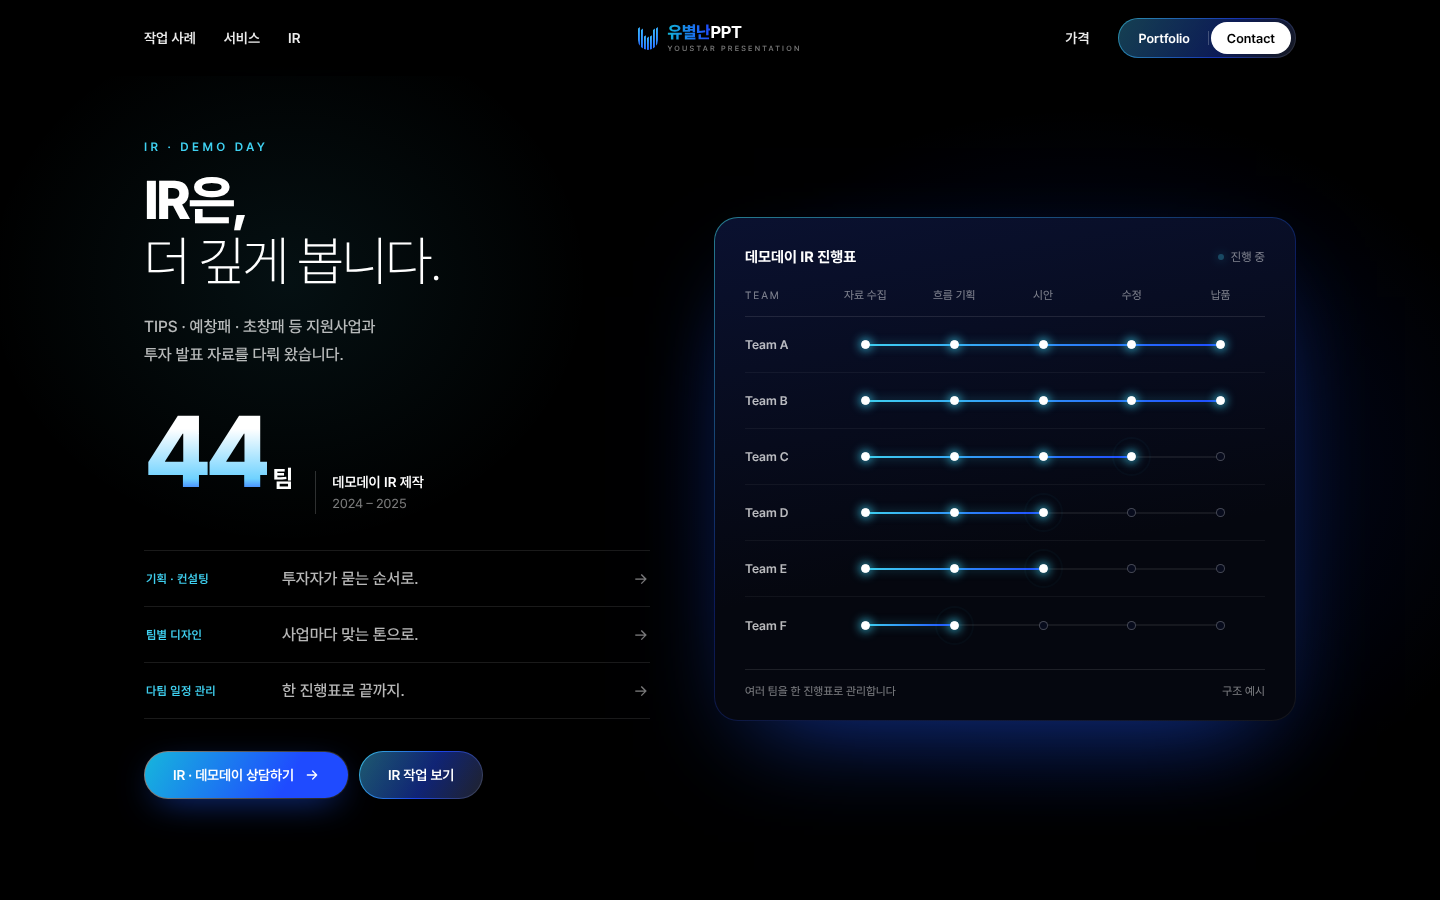
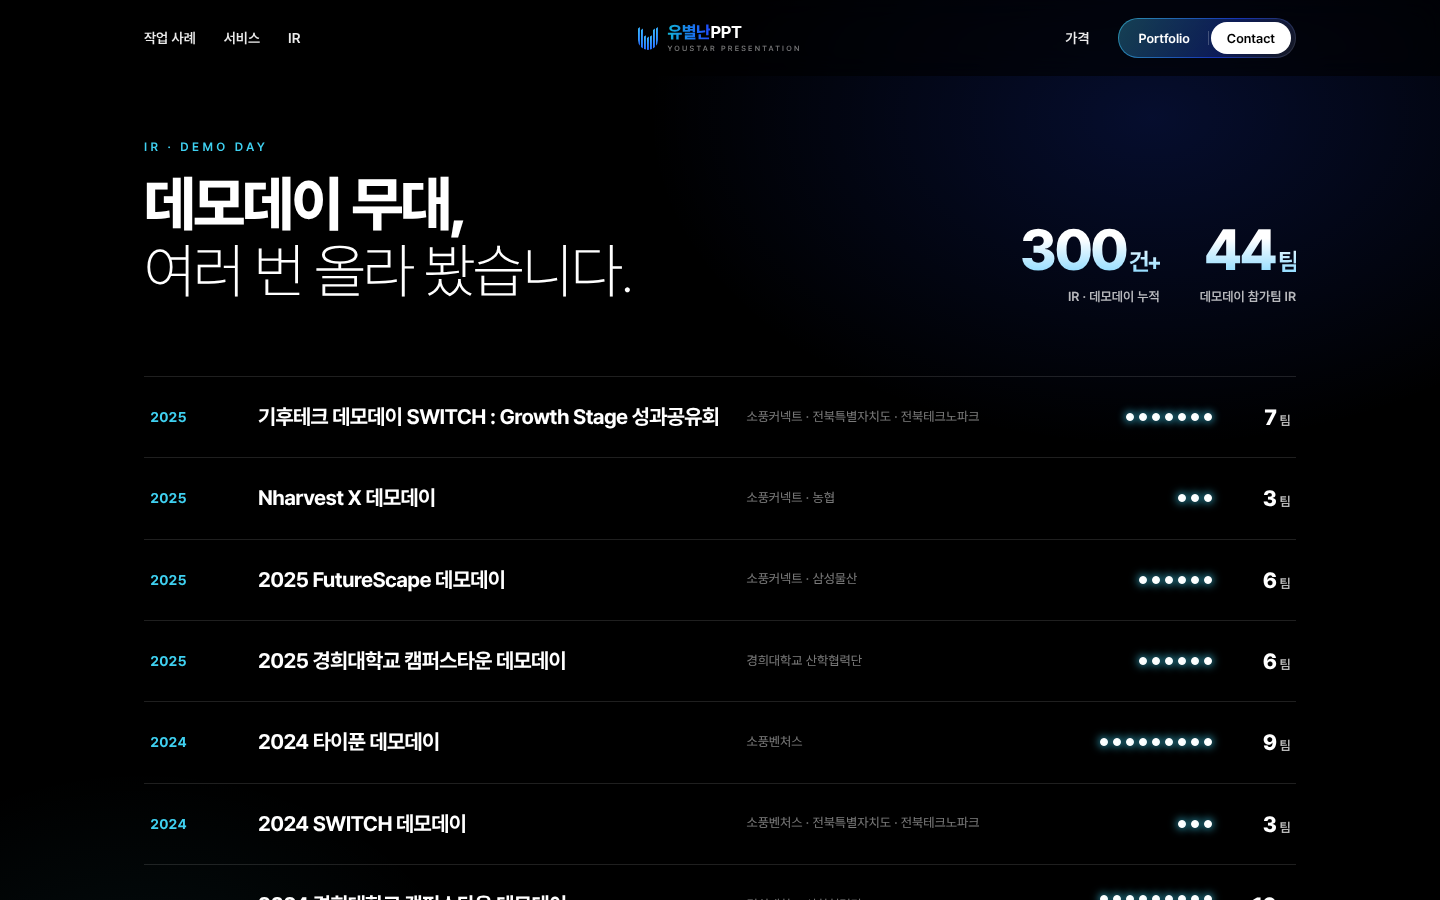
v2: IR section rebuilt from real demo day history; update stats
- IR: 회사소개 연혁의 데모데이 7건(2024–2025, 참가팀 44팀)을 행사별 줄로, 팀 수만큼 빛 점이 켜짐
- 머리 숫자: IR·데모데이 누적 300건+ / 데모데이 참가팀 44팀
- 숫자 섹션: 누적 작업 642건+, 공식 고객후기 359건, IR·데모데이 300건+

Claude-Session: https://claude.ai/code/session_01NURhbB6Mq8R8WnaczfYj5a

diff --git a/redesign/v2/index.html b/redesign/v2/index.html
@@ -176,71 +176,54 @@ a{color:inherit;text-decoration:none}
   .svc__foot{text-align:left;font-size:13px}
 }
 
-/* 다섯 번째: IR 특화 — 44팀 + 여러 팀 진행표 */
+/* 다섯 번째: IR — 실제 데모데이 이력. 행사마다 참가팀 수만큼 빛 점이 켜진다 */
 .irx{position:relative;padding:140px 0;isolation:isolate}
-.irx::before{content:"";position:absolute;inset:0;z-index:-1;background:radial-gradient(ellipse 45% 55% at 75% 50%,rgba(31,75,255,.16),transparent 70%),radial-gradient(ellipse 30% 40% at 20% 30%,rgba(63,208,240,.08),transparent 70%)}
-.irx .wrap{display:grid;grid-template-columns:1fr 1.15fr;gap:64px;align-items:center}
+.irx::before{content:"";position:absolute;inset:0;z-index:-1;background:radial-gradient(ellipse 50% 40% at 80% 10%,rgba(31,75,255,.18),transparent 70%),radial-gradient(ellipse 35% 35% at 10% 90%,rgba(63,208,240,.08),transparent 70%)}
+.irx__head{display:grid;grid-template-columns:1.3fr 1fr;gap:40px;align-items:end}
 .irx small.k{display:block;font-size:12px;font-weight:600;letter-spacing:.28em;color:#3fd0f0;text-transform:uppercase}
-.irx h2{margin:16px 0 0;font-size:clamp(32px,3.8vw,54px);line-height:1.14;letter-spacing:-.045em}
+.irx h2{margin:16px 0 0;font-size:clamp(34px,4.2vw,60px);line-height:1.12;letter-spacing:-.045em}
 .irx h2 b{font-weight:800}.irx h2 span{font-weight:250}
-.irx .lead{margin:20px 0 0;font-size:16px;line-height:1.8;color:var(--ink-2);font-weight:500}
-.big44{display:flex;align-items:baseline;gap:6px;margin:36px 0 0}
-.big44 b{font-size:clamp(64px,7vw,104px);font-weight:800;letter-spacing:-.06em;line-height:.9;background:linear-gradient(180deg,#fff 25%,#6fd2ff 80%,#1f4bff);-webkit-background-clip:text;background-clip:text;color:transparent;font-variant-numeric:tabular-nums}
-.big44 em{font-style:normal;font-size:24px;font-weight:700}
-.big44 small{margin-left:16px;padding-left:16px;border-left:1px solid rgba(255,255,255,.18);font-size:13px;line-height:1.6;color:var(--ink-3)}
-.big44 small strong{display:block;color:#fff;font-weight:600;font-size:14px}
-.irlist{margin:36px 0 0;padding:0;list-style:none;border-top:1px solid rgba(255,255,255,.1)}
-.irlist li{border-bottom:1px solid rgba(255,255,255,.1)}
-.irlist a{display:grid;grid-template-columns:120px 1fr auto;align-items:center;gap:16px;padding:18px 2px;transition:padding .4s var(--ease),background .4s}
-.irlist small{font-size:12px;font-weight:600;color:#3fd0f0;letter-spacing:.02em}
-.irlist b{font-size:16px;font-weight:500;color:var(--ink-2);transition:color .3s}
-.irlist i{font-style:normal;color:var(--ink-3);transition:transform .4s var(--ease),color .3s}
-.irlist a:hover,.irlist a:focus-visible{padding-left:12px;background:linear-gradient(90deg,rgba(63,208,240,.08),transparent)}
-.irlist a:hover b{color:#fff}.irlist a:hover i{transform:translateX(4px);color:#fff}
-.irx .acts{display:flex;flex-wrap:wrap;gap:10px;margin-top:32px}
-.irx .acts .gbtn{height:48px;font-size:14px}
-/* 진행표 */
-.board{border-radius:24px;padding:1px;background:linear-gradient(150deg,rgba(63,208,240,.6),rgba(31,75,255,.35) 45%,rgba(255,255,255,.08));box-shadow:0 40px 100px -40px rgba(31,90,255,.6)}
-.board__in{border-radius:23px;background:linear-gradient(170deg,#0a1130,#05070f 65%);padding:30px 30px 22px}
-.board__top{display:flex;justify-content:space-between;align-items:center;margin-bottom:22px}
-.board__top b{font-size:15px;font-weight:700}
-.board__top span{display:inline-flex;align-items:center;gap:7px;font-size:12px;color:var(--ink-3)}
-.board__top span::before{content:"";width:6px;height:6px;border-radius:50%;background:#3fd0f0;box-shadow:0 0 10px #3fd0f0;animation:blink 1.6s ease-in-out infinite}
-@keyframes blink{50%{opacity:.3}}
-.bh,.br{display:grid;grid-template-columns:76px repeat(5,minmax(0,1fr));align-items:center}
-.bh{padding-bottom:14px;border-bottom:1px solid rgba(255,255,255,.1)}
-.bh span{font-size:11.5px;color:var(--ink-3);text-align:center;transition:color .3s}
-.bh span:first-child{text-align:left;letter-spacing:.18em;font-size:10.5px}
-.br{position:relative;height:56px;border-bottom:1px solid rgba(255,255,255,.05)}
-.br:last-child{border-bottom:0}
-.br > span{font-size:12.5px;color:var(--ink-2);font-weight:600;transition:color .3s}
-.br i{position:relative;z-index:1;justify-self:center;width:9px;height:9px;border-radius:50%;border:1px solid rgba(255,255,255,.25);background:#070b1c;transition:background .35s,border-color .35s,box-shadow .35s,opacity .3s;transition-delay:calc(var(--i) * .22s + var(--r) * .06s)}
-.br::before,.br::after{content:"";position:absolute;left:calc(76px + (100% - 76px) / 10);top:50%;height:2px;margin-top:-1px;border-radius:2px}
-.br::before{right:calc((100% - 76px) / 10);background:rgba(255,255,255,.07)}
-.br::after{width:0;background:linear-gradient(90deg,#3fd0f0,#1f4bff);box-shadow:0 0 10px rgba(63,208,240,.5);transition:width calc((var(--p) - 1) * .22s) linear calc(var(--r) * .06s)}
-.board.is-on .br::after{width:calc((100% - 76px) * (var(--p) - 1) / 5)}
-.board.is-on .br i.is-done{background:#fff;border-color:#fff;box-shadow:0 0 10px 2px rgba(63,208,240,.7)}
-.br i.is-now::after{content:"";position:absolute;inset:-7px;border-radius:50%;border:1.5px solid #3fd0f0;opacity:0}
-.board.is-on .br i.is-now::after{animation:ping 2.2s var(--ease) infinite 1.6s}
-@keyframes ping{0%{opacity:1;transform:scale(.5)}80%,100%{opacity:0;transform:scale(1.9)}}
-.board.is-hl .br i:not(.hl){opacity:.22}
-.board.is-hl .bh span.hl,.board.is-hl .br > span.hl{color:#3fd0f0}
-.board__cap{display:flex;justify-content:space-between;margin:16px 0 0;padding-top:14px;border-top:1px solid rgba(255,255,255,.1);font-size:11.5px;color:var(--ink-3)}
+.irx__nums{display:flex;gap:40px;justify-content:flex-end}
+.irx__nums div{text-align:right}
+.irx__nums b{display:block;font-size:clamp(40px,4vw,58px);font-weight:800;letter-spacing:-.05em;line-height:1;background:linear-gradient(180deg,#fff 30%,#7fd6ff);-webkit-background-clip:text;background-clip:text;color:transparent;font-variant-numeric:tabular-nums}
+.irx__nums b em{font-style:normal;font-size:.42em;font-weight:700;margin-left:3px}
+.irx__nums span{display:block;margin-top:10px;font-size:13px;color:var(--ink-2);font-weight:600}
+.dd{margin:72px 0 0;padding:0;list-style:none;border-top:1px solid rgba(255,255,255,.12)}
+.dd li{position:relative;display:grid;grid-template-columns:84px minmax(0,1.5fr) minmax(0,1fr) 210px;align-items:center;gap:24px;padding:26px 6px;border-bottom:1px solid rgba(255,255,255,.12);opacity:0;transform:translateY(16px);transition:opacity .8s var(--ease),transform .8s var(--ease),background .4s,padding .4s var(--ease)}
+.dd.is-in li{opacity:1;transform:none}
+.dd li::before{content:"";position:absolute;left:0;top:-1px;height:1px;width:0;background:linear-gradient(90deg,#3fd0f0,#1f4bff);transition:width .6s var(--ease)}
+.dd li:hover{background:linear-gradient(90deg,rgba(31,75,255,.10),transparent 70%);padding-left:16px}
+.dd li:hover::before{width:100%}
+.dd time{font-size:14px;font-weight:700;color:#3fd0f0;font-variant-numeric:tabular-nums}
+.dd h3{margin:0;font-size:clamp(17px,1.5vw,21px);font-weight:700;letter-spacing:-.03em;line-height:1.35}
+.dd p{margin:0;font-size:13px;line-height:1.6;color:var(--ink-3)}
+.dd .teams{display:flex;align-items:center;justify-content:flex-end;gap:14px}
+.dd .dots{display:flex;flex-wrap:wrap;gap:5px;justify-content:flex-end;max-width:120px}
+.dd .dots i{width:8px;height:8px;border-radius:50%;border:1px solid rgba(255,255,255,.25);transition:background .3s,border-color .3s,box-shadow .3s;transition-delay:calc(.5s + var(--d) * .07s)}
+.dd.is-in .dots i{background:#fff;border-color:#fff;box-shadow:0 0 8px 1px rgba(63,208,240,.8)}
+.dd .teams b{min-width:64px;text-align:right;font-size:22px;font-weight:800;letter-spacing:-.03em}
+.dd .teams b em{font-style:normal;font-size:13px;font-weight:600;color:var(--ink-2);margin-left:3px}
+.irx__foot{display:flex;justify-content:space-between;align-items:center;gap:20px;margin-top:40px}
+.irx__foot p{margin:0;font-size:15px;color:var(--ink-2)}
+.irx__foot p b{color:#fff}
+.irx__foot .acts{display:flex;gap:10px}
+.irx__foot .gbtn{height:48px;font-size:14px}
 @media (max-width:860px){
   .irx{padding:96px 0}
-  .irx .wrap{grid-template-columns:1fr;gap:44px}
-  .irx h2{font-size:clamp(30px,8.6vw,38px)}
-  .irx .lead{font-size:14.5px}
-  .big44 b{font-size:72px}
-  .irlist a{grid-template-columns:96px 1fr auto;gap:10px;padding:16px 0}
-  .irlist b{font-size:14.5px}
-  .irx .acts{display:grid;grid-template-columns:1fr}
-  .board__in{padding:20px 14px 16px}
-  .bh,.br{grid-template-columns:54px repeat(5,minmax(0,1fr))}
-  .br::before,.br::after{left:calc(54px + (100% - 54px) / 10)}
-  .br::before{right:calc((100% - 54px) / 10)}
-  .board.is-on .br::after{width:calc((100% - 54px) * (var(--p) - 1) / 5)}
-  .bh span{font-size:10px}.br{height:46px}.br > span{font-size:11px}
+  .irx__head{grid-template-columns:1fr;gap:28px}
+  .irx h2{font-size:clamp(32px,9vw,40px)}
+  .irx__nums{justify-content:flex-start;gap:32px}
+  .irx__nums div{text-align:left}
+  .dd{margin-top:44px}
+  .dd li{grid-template-columns:1fr auto;gap:6px 16px;padding:20px 0}
+  .dd li:hover{padding-left:0}
+  .dd time{grid-column:1 / -1;font-size:12.5px}
+  .dd h3{font-size:16.5px}
+  .dd p{grid-column:1;font-size:12px}
+  .dd .teams{grid-column:2;grid-row:2 / span 2}
+  .dd .dots{display:none}
+  .irx__foot{flex-direction:column;align-items:flex-start}
+  .irx__foot .acts{display:grid;grid-template-columns:1fr;width:100%}
 }
 
 @media (max-width:860px){
@@ -303,10 +286,10 @@ a{color:inherit;text-decoration:none}
       <h2><b>숫자가</b> <span>먼저 말합니다.</span></h2>
     </div>
     <div class="stats" id="stats">
-      <div class="stat"><b data-to="442">0<em>건</em></b><span>누적 작업</span><small>IR · 제안서 · 회사소개서</small></div>
+      <div class="stat"><b data-to="642">0<em>건+</em></b><span>누적 작업</span><small>IR · 제안서 · 회사소개서</small></div>
       <div class="stat"><b data-to="4.9" data-dec="1">0<em>/5</em></b><span>고객 평점</span><small>외부 플랫폼 기준</small></div>
-      <div class="stat"><b data-to="359">0<em>건</em></b><span>고객 후기</span><small>실제 의뢰 고객 작성</small></div>
-      <div class="stat"><b data-to="44">0<em>팀</em></b><span>데모데이 IR</span><small>2024 – 2025</small></div>
+      <div class="stat"><b data-to="359">0<em>건</em></b><span>공식 고객후기</span><small>실제 의뢰 고객 작성</small></div>
+      <div class="stat"><b data-to="300">0<em>건+</em></b><span>IR · 데모데이</span><small>누적 제작</small></div>
     </div>
     <div class="quote" id="quote" aria-live="polite">
       <p class="is-on"><i>★★★★★</i><q>벌써 8번째 의뢰, 자료의 톤앤매너를 완벽하게 캐치합니다.</q></p>
@@ -336,25 +319,14 @@ a{color:inherit;text-decoration:none}
 </section>
 <section class="irx" id="ir">
   <div class="wrap">
-    <div>
-      <small class="k">IR · Demo Day</small>
-      <h2><b>IR은,</b><br><span>더 깊게 봅니다.</span></h2>
-      <p class="lead">TIPS · 예창패 · 초창패 등 지원사업과<br>투자 발표 자료를 다뤄 왔습니다.</p>
-      <div class="big44"><b id="n44">44</b><em>팀</em><small><strong>데모데이 IR 제작</strong>2024 – 2025</small></div>
-      <ul class="irlist" id="irlist">
-        <li><a href="#contact" data-c="0,1"><small>기획 · 컨설팅</small><b>투자자가 묻는 순서로.</b><i>→</i></a></li>
-        <li><a href="#contact" data-c="2,3"><small>팀별 디자인</small><b>사업마다 맞는 톤으로.</b><i>→</i></a></li>
-        <li><a href="#contact" data-c="t"><small>다팀 일정 관리</small><b>한 진행표로 끝까지.</b><i>→</i></a></li>
-      </ul>
-      <div class="acts"><a class="gbtn gbtn--fill" href="#contact">IR · 데모데이 상담하기<svg viewBox="0 0 24 24" fill="none" stroke="currentColor" stroke-width="2" stroke-linecap="round" stroke-linejoin="round"><path d="M5 12h14M13 6l6 6-6 6"/></svg></a><a class="gbtn" href="../../portfolio.html#ir">IR 작업 보기</a></div>
+    <div class="irx__head">
+      <div><small class="k">IR · Demo Day</small><h2><b>데모데이 무대,</b><br><span>여러 번 올라 봤습니다.</span></h2></div>
+      <div class="irx__nums"><div><b data-to="300">0<em>건+</em></b><span>IR · 데모데이 누적</span></div><div><b data-to="44">0<em>팀</em></b><span>데모데이 참가팀 IR</span></div></div>
     </div>
-    <div class="board" id="board" aria-label="여러 팀 IR 진행표 예시">
-      <div class="board__in">
-        <div class="board__top"><b>데모데이 IR 진행표</b><span>진행 중</span></div>
-        <div class="bh" aria-hidden="true"><span>TEAM</span><span>자료 수집</span><span>흐름 기획</span><span>시안</span><span>수정</span><span>납품</span></div>
-        <div id="brs"></div>
-        <p class="board__cap"><span>여러 팀을 한 진행표로 관리합니다</span><span>구조 예시</span></p>
-      </div>
+    <ul class="dd" id="dd" aria-label="데모데이 IR 제작 이력"><li style="transition-delay:0.00s"><time>2025</time><h3>기후테크 데모데이 SWITCH : Growth Stage 성과공유회</h3><p>소풍커넥트 · 전북특별자치도 · 전북테크노파크</p><div class="teams"><span class="dots" aria-hidden="true"><i style="--d:0"></i><i style="--d:1"></i><i style="--d:2"></i><i style="--d:3"></i><i style="--d:4"></i><i style="--d:5"></i><i style="--d:6"></i></span><b>7<em>팀</em></b></div></li><li style="transition-delay:0.08s"><time>2025</time><h3>Nharvest X 데모데이</h3><p>소풍커넥트 · 농협</p><div class="teams"><span class="dots" aria-hidden="true"><i style="--d:0"></i><i style="--d:1"></i><i style="--d:2"></i></span><b>3<em>팀</em></b></div></li><li style="transition-delay:0.16s"><time>2025</time><h3>2025 FutureScape 데모데이</h3><p>소풍커넥트 · 삼성물산</p><div class="teams"><span class="dots" aria-hidden="true"><i style="--d:0"></i><i style="--d:1"></i><i style="--d:2"></i><i style="--d:3"></i><i style="--d:4"></i><i style="--d:5"></i></span><b>6<em>팀</em></b></div></li><li style="transition-delay:0.24s"><time>2025</time><h3>2025 경희대학교 캠퍼스타운 데모데이</h3><p>경희대학교 산학협력단</p><div class="teams"><span class="dots" aria-hidden="true"><i style="--d:0"></i><i style="--d:1"></i><i style="--d:2"></i><i style="--d:3"></i><i style="--d:4"></i><i style="--d:5"></i></span><b>6<em>팀</em></b></div></li><li style="transition-delay:0.32s"><time>2024</time><h3>2024 타이푼 데모데이</h3><p>소풍벤처스</p><div class="teams"><span class="dots" aria-hidden="true"><i style="--d:0"></i><i style="--d:1"></i><i style="--d:2"></i><i style="--d:3"></i><i style="--d:4"></i><i style="--d:5"></i><i style="--d:6"></i><i style="--d:7"></i><i style="--d:8"></i></span><b>9<em>팀</em></b></div></li><li style="transition-delay:0.40s"><time>2024</time><h3>2024 SWITCH 데모데이</h3><p>소풍벤처스 · 전북특별자치도 · 전북테크노파크</p><div class="teams"><span class="dots" aria-hidden="true"><i style="--d:0"></i><i style="--d:1"></i><i style="--d:2"></i></span><b>3<em>팀</em></b></div></li><li style="transition-delay:0.48s"><time>2024</time><h3>2024 경희대학교 캠퍼스타운 데모데이</h3><p>경희대학교 산학협력단</p><div class="teams"><span class="dots" aria-hidden="true"><i style="--d:0"></i><i style="--d:1"></i><i style="--d:2"></i><i style="--d:3"></i><i style="--d:4"></i><i style="--d:5"></i><i style="--d:6"></i><i style="--d:7"></i><i style="--d:8"></i><i style="--d:9"></i></span><b>10<em>팀</em></b></div></li></ul>
+    <div class="irx__foot">
+      <p>참가팀마다 사업에 맞는 톤으로, <b>투자자가 묻는 순서대로</b> 만들었습니다.</p>
+      <div class="acts"><a class="gbtn gbtn--fill" href="#contact">IR · 데모데이 상담하기<svg viewBox="0 0 24 24" fill="none" stroke="currentColor" stroke-width="2" stroke-linecap="round" stroke-linejoin="round"><path d="M5 12h14M13 6l6 6-6 6"/></svg></a><a class="gbtn" href="../../about.html">전체 이력 보기</a></div>
     </div>
   </div>
 </section>
@@ -597,23 +569,12 @@ a{color:inherit;text-decoration:none}
 </script>
 <script>
 (() => {
-  const board = document.getElementById("board"), box = document.getElementById("brs"); if (!board) return;
+  const dd = document.getElementById("dd"); if (!dd) return;
   const reduce = matchMedia("(prefers-reduced-motion: reduce)").matches;
-  const prog = [5, 5, 4, 3, 3, 2];
-  box.innerHTML = prog.map((p, r) => `<div class="br" style="--p:${p};--r:${r}"><span>Team ${"ABCDEF"[r]}</span>` + [0, 1, 2, 3, 4].map((i) => `<i data-c="${i}" style="--i:${i}" class="${i < p ? "is-done" : ""}${i === p - 1 && p < 5 ? " is-now" : ""}"></i>`).join("") + `</div>`).join("");
-  const n = document.getElementById("n44");
-  new IntersectionObserver((es, o) => es.forEach((e) => { if (!e.isIntersecting) return; o.disconnect(); board.classList.add("is-on");
-    if (reduce) return; const t0 = performance.now(); const st = (t) => { const k = Math.min(1, (t - t0) / 1400); n.textContent = Math.round(44 * (1 - Math.pow(1 - k, 3))); if (k < 1) requestAnimationFrame(st); }; requestAnimationFrame(st);
-  }), { threshold: .35 }).observe(board);
-  const head = board.querySelectorAll(".bh span");
-  document.querySelectorAll("#irlist a").forEach((a) => {
-    const on = () => { const c = a.dataset.c.split(","); board.classList.add("is-hl");
-      head.forEach((s, k) => s.classList.toggle("hl", k === 0 ? c.includes("t") : c.includes(String(k - 1))));
-      board.querySelectorAll(".br > span").forEach((s) => s.classList.toggle("hl", c.includes("t")));
-      board.querySelectorAll(".br i").forEach((d) => d.classList.toggle("hl", c.includes("t") || c.includes(d.dataset.c))); };
-    const off = () => board.classList.remove("is-hl");
-    a.addEventListener("pointerenter", on); a.addEventListener("focus", on); a.addEventListener("pointerleave", off); a.addEventListener("blur", off);
-  });
+  const count = (b) => { const to = +b.dataset.to, em = b.querySelector("em").outerHTML, t0 = performance.now();
+    const st = (t) => { const k = reduce ? 1 : Math.min(1, (t - t0) / 1500); b.innerHTML = Math.round(to * (1 - Math.pow(1 - k, 3))) + em; if (k < 1) requestAnimationFrame(st); }; requestAnimationFrame(st); };
+  new IntersectionObserver((es, o) => es.forEach((e) => { if (e.isIntersecting) { o.disconnect(); document.querySelectorAll(".irx__nums b[data-to]").forEach(count); } }), { threshold: .5 }).observe(document.querySelector(".irx__nums"));
+  new IntersectionObserver((es, o) => es.forEach((e) => { if (e.isIntersecting) { dd.classList.add("is-in"); o.disconnect(); } }), { threshold: .15 }).observe(dd);
 })();
 </script>
 
